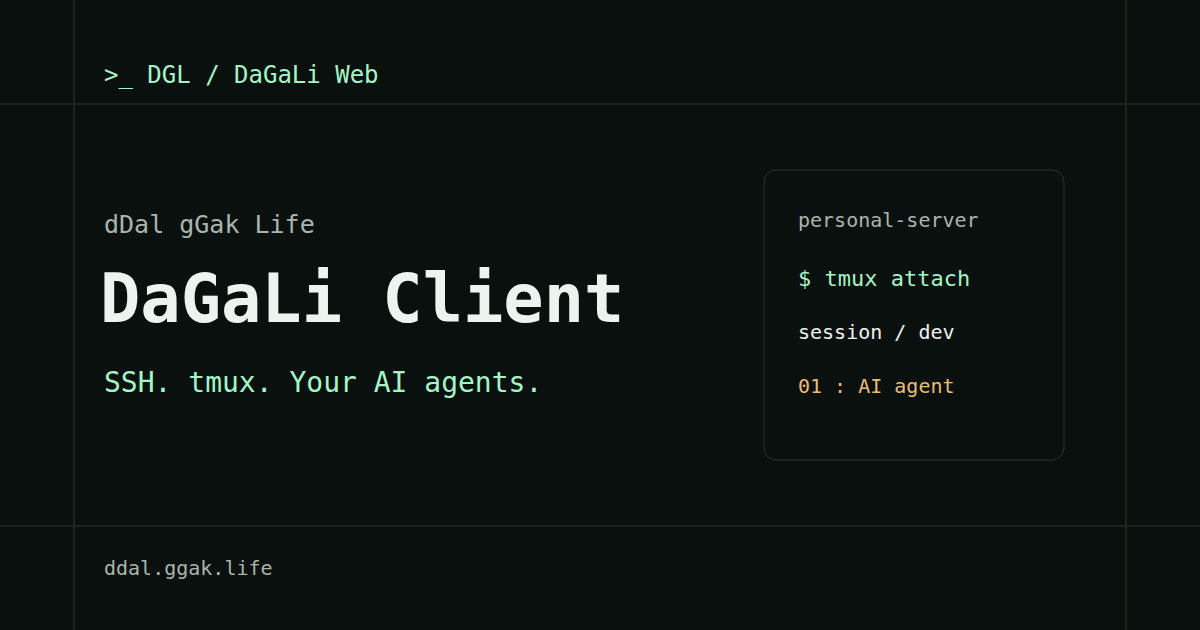
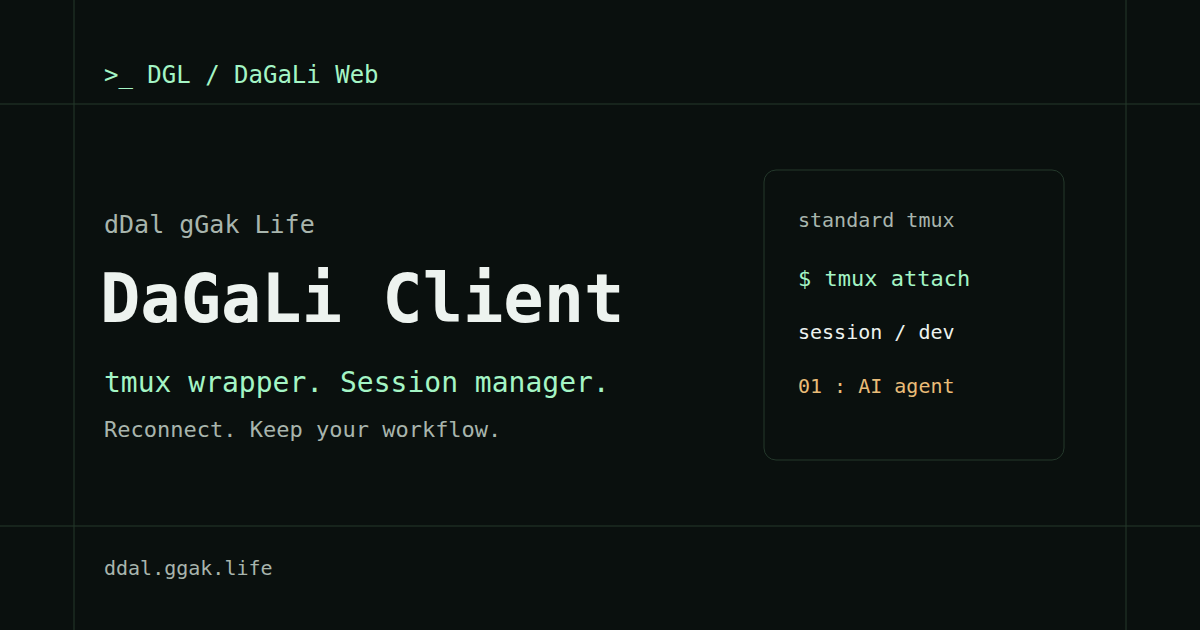
fix: center DGL messaging on tmux session management

Changed region(s): [[0.0925, 0.573, 0.4933, 0.6333], [0.0925, 0.6635, 0.4317, 0.6937], [0.6475, 0.3317, 0.8325, 0.3619]]

diff --git a/src/data/content.ts b/src/data/content.ts
@@ -61,10 +61,10 @@ interface Content {
 
 export const content: Record<Language, Content> = {
   en: {
-    title: 'DaGaLi Client — SSH, tmux & your AI agents | DaGaLi Web',
+    title: 'DaGaLi Client — tmux session manager | DaGaLi Web',
     description:
-      'Meet DaGaLi Client (DGL): a development-stage SSH client for tmux and AI coding agents on your personal server. Explore features and platform progress.',
-    workflowStack: 'SSH + tmux + AI coding agents',
+      'DaGaLi Client (DGL) is a development-stage tmux wrapper for session reconnection and management. Keep using standard tmux, with SSH for remote access.',
+    workflowStack: 'tmux wrapper · session manager',
     nav: {
       label: 'On this page',
       workflow: 'How it works',
@@ -77,50 +77,50 @@ export const content: Record<Language, Content> = {
     hero: {
       title: 'Step away.',
       emphasis: 'Keep your place.',
-      body: 'Already running AI coding agents in tmux? Connect over SSH, find your sessions and panes, and pick up the work on your personal server.',
+      body: 'DaGaLi Client wraps tmux to help you reconnect to and manage sessions, windows and panes. Use the same tmux sessions directly from a local terminal, with built-in SSH when you need remote access.',
       github: 'Explore on GitHub',
       getApp: 'Get App',
       status: 'In development',
-      note: 'Work continues while its tmux session and server stay running. Downloads are not available yet.',
+      note: 'Work continues while the machine, tmux session and processes stay running. Downloads are not available yet.',
     },
     preview: {
       label: 'ILLUSTRATIVE EXAMPLE',
       caption:
-        'A sketch of the workflow. Not an app screenshot or a live SSH connection.',
+        'An illustrative remote tmux workflow. Not an app screenshot or a live SSH connection.',
       host: 'personal-server',
       session: 'dev session',
       agent: 'AI agent',
       output: 'Your work lives here.',
-      footer: 'SSH → tmux → AI coding agents',
+      footer: 'Standard tmux · local terminal or remote SSH',
     },
     workflow: {
-      eyebrow: '01 / THE CONNECTION',
-      title: 'SSH in. Return to tmux.',
-      body: 'Your AI coding agents are already running in tmux. DaGaLi Client brings you back to the sessions, windows and panes you use on your server.',
+      eyebrow: '01 / HOW TO USE IT',
+      title: 'Run in tmux. Reconnect. Keep going.',
+      body: 'Start a tmux session and run your AI coding agents inside it. Use DaGaLi Client to find sessions, switch windows and panes, and reconnect to your work. The same standard tmux sessions remain accessible from a local terminal; use SSH when you need remote access.',
       steps: [
-        { title: 'Personal server', detail: 'The machine you manage' },
-        { title: 'SSH', detail: 'Connect with your account' },
-        { title: 'tmux', detail: 'Sessions, windows & panes' },
-        { title: 'AI coding agents', detail: 'Your CLI, on your server' },
+        { title: 'Start tmux', detail: 'Create a session for your work' },
+        { title: 'Run your agents', detail: 'Use your AI CLI inside tmux' },
+        { title: 'Manage with DGL', detail: 'Find sessions, windows & panes' },
+        { title: 'Reconnect', detail: 'Return with DGL or a local terminal' },
       ],
-      note: 'Disconnecting the client leaves a running tmux session on the server. Reconnect to that session to continue. An ordinary SSH shell may not preserve work after disconnection.',
+      note: 'tmux keeps work running as long as the machine, session and processes stay alive. DaGaLi Client helps you manage and reconnect to those sessions. An ordinary shell alone does not provide the same persistence.',
     },
     features: {
       eyebrow: '02 / LESS FRICTION',
       title: 'Keep the CLI. Simplify the way in.',
-      body: 'Built around the moments between connecting, finding a session, and getting back to work. Features below are implemented in the development candidate; platform verification varies.',
+      body: 'Find tmux sessions, navigate windows and panes, and reconnect when you return. Features below are implemented in the development candidate; platform verification varies.',
       items: [
         {
           icon: 'tree',
-          title: 'Your tmux sessions and panes',
-          body: 'Browse a session → window → pane tree. Select a target, split a tmux pane, or move focus without remembering every command.',
+          title: 'tmux navigation and reconnection',
+          body: 'Browse a session → window → pane tree and reconnect to your work. Select a target, split a tmux pane, or move focus without remembering every command.',
           tag: 'TMUX NAVIGATION',
         },
         {
           icon: 'server',
-          title: 'Your hosts, together',
-          body: 'Save hosts, aliases and favorites. Recent connections and independent tabs keep your servers within reach.',
-          tag: 'HOST MANAGEMENT',
+          title: 'SSH when you need remote access',
+          body: 'Save SSH hosts, aliases and favorites for remote work. Recent connections and independent tabs keep your remote machines within reach.',
+          tag: 'REMOTE ACCESS',
         },
         {
           icon: 'layout',
@@ -149,17 +149,17 @@ export const content: Record<Language, Content> = {
     },
     faq: {
       eyebrow: '03 / GOOD TO KNOW',
-      title: 'Before you connect.',
+      title: 'Before you start.',
       items: [
         {
-          question: 'What do I need on my server?',
+          question: 'Do I need SSH to use tmux?',
           answer:
-            'A server you can access over SSH, your own account and authentication, a UTF-8 locale, and tmux for the session workflow. The client documents tmux 3.3–3.7 Control Mode support, with upstream server checks on 3.3a and 3.7c. Install and sign in to your AI CLI tools on that server yourself.',
+            'You can attach to standard tmux sessions directly from a local terminal on the machine running them. DaGaLi Client includes SSH as a way to reach remote sessions, using your own account and authentication. Install tmux and your AI CLI tools on the machine where the work runs, use a UTF-8 locale, and sign in to those tools yourself. The Client documents tmux 3.3–3.7 Control Mode support, with server checks on 3.3a and 3.7c.',
         },
         {
-          question: 'What does tmux keep running?',
+          question: 'What does DaGaLi Client add to tmux?',
           answer:
-            'tmux holds sessions, windows and panes on the server. Closing SSH can leave that work running so you can attach again, provided the server, session and processes survive. A server restart, deleted session or terminated process can end the work. An ordinary SSH shell does not offer the same persistence guarantee.',
+            'tmux provides the sessions, windows, panes and persistent work environment. DaGaLi Client is a wrapper that helps you navigate, reconnect to and manage those sessions. You can also attach to the same sessions directly from a local terminal. The machine, tmux session and processes must stay alive: a restart, deleted session or terminated process can end the work. An ordinary shell alone does not offer the same persistence.',
         },
         {
           id: 'download-notice',
@@ -182,15 +182,15 @@ export const content: Record<Language, Content> = {
       reviewed: 'Content reviewed',
     },
     footer: {
-      note: 'A small client for a workflow that stays yours.',
+      note: 'A small wrapper for your tmux workflow.',
       top: 'Back to top ↑',
     },
   },
   ko: {
-    title: 'DaGaLi Client — SSH, tmux, 나의 AI 에이전트 | DaGaLi Web',
+    title: 'DaGaLi Client — tmux 세션 재연결·관리 | DaGaLi Web',
     description:
-      '개인 서버의 tmux와 AI 코딩 에이전트를 위한 개발 중인 SSH 클라이언트, DaGaLi Client(DGL). 주요 기능과 플랫폼별 개발 상태를 확인하세요.',
-    workflowStack: 'SSH + tmux + AI coding agents',
+      'tmux 세션 재연결과 관리를 돕는 개발 중인 래퍼, DaGaLi Client(DGL). 표준 tmux 세션을 로컬 터미널에서도 사용하고, 원격 접속에는 SSH를 활용하세요.',
+    workflowStack: 'tmux 래퍼 · 세션 재연결·관리',
     nav: {
       label: '페이지 탐색',
       workflow: '사용 흐름',
@@ -203,50 +203,50 @@ export const content: Record<Language, Content> = {
     hero: {
       title: '자리는 바뀌어도,',
       emphasis: '작업은 이어지게.',
-      body: 'tmux에서 실행 중인 AI 코딩 에이전트에 SSH로 다시 연결하세요. 세션·창·패널을 찾아 서버에 남겨 둔 작업을 이어갑니다.',
+      body: 'DaGaLi Client는 tmux를 감싸 세션·창·패널 탐색과 재연결·관리를 돕습니다. 같은 tmux 세션을 로컬 터미널에서 직접 사용하고, 원격 접속이 필요하면 내장 SSH로 연결하세요.',
       github: 'GitHub에서 살펴보기',
       getApp: 'Get App',
       status: '개발 중',
-      note: '서버와 tmux 세션이 실행 중일 때 작업을 이어갈 수 있습니다. 다운로드는 아직 준비 중입니다.',
+      note: '작업을 실행한 컴퓨터와 tmux 세션·프로세스가 살아 있는 동안 작업을 이어갈 수 있습니다. 다운로드는 아직 준비 중입니다.',
     },
     preview: {
       label: '설명용 예시',
       caption:
-        '사용 흐름을 그린 예시입니다. 실제 앱 화면이나 실시간 SSH 연결이 아닙니다.',
+        'SSH로 접속하는 경우의 설명용 예시입니다. 실제 앱 화면이나 실시간 SSH 연결이 아닙니다.',
       host: 'personal-server',
       session: 'dev 세션',
       agent: 'AI agent',
       output: '작업은 이곳에 남아 있습니다.',
-      footer: 'SSH → tmux → AI coding agents',
+      footer: '표준 tmux · 로컬 터미널 또는 원격 SSH',
     },
     workflow: {
-      eyebrow: '01 / 연결 흐름',
-      title: 'SSH로 연결해, tmux 작업으로.',
-      body: '이미 tmux에서 실행 중인 AI 코딩 에이전트. DaGaLi Client로 서버의 익숙한 세션·창·패널에 돌아오세요.',
+      eyebrow: '01 / 사용 흐름',
+      title: 'tmux에서 실행하고, 세션을 이어가세요.',
+      body: 'tmux 세션을 열고 그 안에서 AI 코딩 에이전트를 실행하세요. DaGaLi Client로 세션을 찾고 창·패널을 전환하며, 다시 연결해 작업을 이어갑니다. 같은 표준 tmux 세션은 로컬 터미널에서도 직접 사용할 수 있고, 원격 접속이 필요할 때 SSH를 사용합니다.',
       steps: [
-        { title: '개인 서버', detail: '직접 관리하는 작업 공간' },
-        { title: 'SSH', detail: '내 계정으로 연결' },
-        { title: 'tmux', detail: '세션 · 창 · 패널 관리' },
-        { title: 'AI 코딩 에이전트', detail: '서버에서 실행하는 CLI' },
+        { title: 'tmux 세션 시작', detail: '작업할 세션을 구성하세요' },
+        { title: 'AI 에이전트 실행', detail: 'tmux 안에서 AI CLI를 쓰세요' },
+        { title: 'DGL로 관리', detail: '세션·창·패널을 탐색하세요' },
+        { title: '다시 연결', detail: 'DGL이나 로컬 터미널로 이어가세요' },
       ],
-      note: '클라이언트 연결을 닫아도 실행 중인 tmux 세션은 서버에 남습니다. 같은 세션에 다시 연결해 이어가세요. 일반 SSH 셸의 작업은 연결 종료 후 보존되지 않을 수 있습니다.',
+      note: '작업을 실행한 컴퓨터와 세션·프로세스가 살아 있는 동안 작업을 유지하는 것은 tmux입니다. DaGaLi Client는 그 세션의 관리와 재연결을 돕습니다. 일반 셸만으로는 같은 작업 유지를 보장하지 않습니다.',
     },
     features: {
       eyebrow: '02 / 주요 기능',
       title: 'CLI는 그대로. 진입은 더 편하게.',
-      body: '서버 연결부터 원하는 세션을 찾아 다시 작업하기까지. 아래 기능은 개발용 후보에 구현되어 있으며, 플랫폼별 실제 검증 범위는 다릅니다.',
+      body: 'tmux 세션을 찾고, 창·패널을 전환하고, 다시 연결해 작업을 이어가세요. 아래 기능은 개발용 후보에 구현되어 있으며, 플랫폼별 실제 검증 범위는 다릅니다.',
       items: [
         {
           icon: 'tree',
-          title: 'tmux 세션부터 원하는 패널까지',
-          body: '세션 → 창 → 패널 트리를 탐색하세요. 명령을 모두 외우지 않아도 대상을 고르고 tmux 패널을 나누거나 포커스를 옮깁니다.',
+          title: 'tmux 세션 탐색과 재연결',
+          body: '세션 → 창 → 패널 트리를 탐색하고 작업에 다시 연결하세요. 명령을 모두 외우지 않아도 대상을 고르고 tmux 패널을 나누거나 포커스를 옮깁니다.',
           tag: 'TMUX 탐색',
         },
         {
           icon: 'server',
-          title: '내 서버를 한곳에',
-          body: '호스트, 별칭, 즐겨찾기를 저장하세요. 최근 접속과 독립된 여러 연결로 필요한 서버를 빠르게 찾습니다.',
-          tag: '호스트 관리',
+          title: '원격 접속이 필요할 때는 SSH',
+          body: '원격 작업용 SSH 호스트, 별칭, 즐겨찾기를 저장하세요. 최근 접속과 독립된 여러 연결로 필요한 원격 컴퓨터를 빠르게 찾습니다.',
+          tag: '원격 접속',
         },
         {
           icon: 'layout',
@@ -275,17 +275,17 @@ export const content: Record<Language, Content> = {
     },
     faq: {
       eyebrow: '03 / 알아두기',
-      title: '연결하기 전에.',
+      title: '시작하기 전에.',
       items: [
         {
-          question: '서버에 무엇을 준비해야 하나요?',
+          question: 'tmux를 쓰려면 SSH가 꼭 필요한가요?',
           answer:
-            'SSH로 접근할 수 있는 서버, 내 계정과 인증 정보, UTF-8 로케일, 세션 작업을 위한 tmux가 필요합니다. Client 문서는 tmux 3.3–3.7의 Control Mode를 지원 범위로 안내하며, 실제 서버 검증은 3.3a·3.7c에서 진행했습니다. AI CLI 도구는 서버에 직접 설치하고 로그인해야 합니다.',
+            'tmux가 실행 중인 컴퓨터의 로컬 터미널에서 표준 tmux 세션에 직접 연결해 사용할 수 있습니다. DaGaLi Client의 내장 SSH는 내 계정과 인증 정보로 원격 세션에 접속할 때 쓰는 부가 기능입니다. 작업을 실행할 컴퓨터에 tmux와 AI CLI를 설치하고, UTF-8 로케일을 설정한 뒤 직접 로그인하세요. Client 문서는 tmux 3.3–3.7의 Control Mode를 지원 범위로 안내하며, 실제 서버 검증은 3.3a·3.7c에서 진행했습니다.',
         },
         {
-          question: 'tmux는 무엇을 유지하나요?',
+          question: 'DaGaLi Client는 tmux에 무엇을 더하나요?',
           answer:
-            'tmux는 서버에서 세션·창·패널을 관리합니다. 서버와 tmux 세션, 프로세스가 살아 있다면 SSH 연결을 닫은 뒤 다시 붙어 작업을 이어갈 수 있습니다. 서버 재시작, 세션 삭제, 프로세스 종료로 작업이 끝날 수 있으며 일반 SSH 셸은 같은 영속성을 보장하지 않습니다.',
+            'tmux가 세션·창·패널과 작업 유지 기능을 제공합니다. DaGaLi Client는 tmux를 감싸 탐색·재연결·관리를 돕는 래퍼입니다. 필요하면 같은 세션을 로컬 터미널에서 직접 사용할 수도 있습니다. 작업을 실행한 컴퓨터와 tmux 세션·프로세스가 살아 있어야 하며, 컴퓨터 재시작·세션 삭제·프로세스 종료로 작업이 끝날 수 있습니다. 일반 셸만으로는 같은 작업 유지를 보장하지 않습니다.',
         },
         {
           id: 'download-notice',
@@ -308,7 +308,7 @@ export const content: Record<Language, Content> = {
       reviewed: '콘텐츠 검토일',
     },
     footer: {
-      note: '나의 작업 방식을 위한 작은 클라이언트.',
+      note: 'tmux 작업을 이어 주는 작은 래퍼.',
       top: '맨 위로 ↑',
     },
   },

diff --git a/docs/project-plan.md b/docs/project-plan.md
@@ -4,20 +4,20 @@ Approved implementation source: the user's DaGaLi Web plan, supplied with an exp
 
 ## Purpose and ownership
 
-Introduce **DaGaLi Client (DGL)** to people using AI coding agents through SSH and tmux on personal servers. Explain purpose, features, development evidence, GitHub, and unavailable downloads. Site name: **DaGaLi Web**. Name expansion: **`dDal gGak Life`**, preserving exact case. Target domain: `https://ddal.ggak.life`.
+Introduce **DaGaLi Client (DGL)** as a tmux wrapper for session reconnection and management. Explain how to run AI coding agents in standard tmux sessions, manage them with DGL, and attach directly from a local terminal when needed. Built-in SSH provides remote access. tmux supplies the underlying session and persistence behavior. Explain features, development evidence, GitHub, and unavailable downloads. Site name: **DaGaLi Web**. Name expansion: **`dDal gGak Life`**, preserving exact case. Target domain: `https://ddal.ggak.life`.
 
 The user owns and approved branding, English/Korean routes, restrained terminal design, content scope, disabled downloads, Git/main/existing GitHub repository, Astro/GitHub Pages, no extra workflow skills, and operating boundaries. The assistant chooses internal component boundaries, CSS, types, test tools, and build procedures within that scope. One operator, no fixed deadline, no paid services, payments, advertising, or visitor analytics.
 
 ## Requirements and acceptance
 
-| ID  | Approved behavior                                                                                                         | Evidence                                              |
-| --- | ------------------------------------------------------------------------------------------------------------------------- | ----------------------------------------------------- |
-| R1  | App name, exact name expansion, value, explicitly illustrative terminal; GitHub and Get App anchors                       | Both languages, browser and no-JS checks              |
-| R2  | Personal server → SSH → tmux → AI agent diagram; return to surviving server-side sessions                                 | Source review and static diagram                      |
-| R3  | Host management, session/window/pane navigation, desktop splits, Android input helpers, optional agent status integration | Reviewed Client README and agent-status documentation |
-| R4  | Three dim, native disabled Apple App Store / Google Play / Desktop buttons; development notice                            | Pointer, keyboard, no-JS; shared configuration        |
-| R5  | Header right side in order: GitHub, star count when available, back to ggak.life, back to cozelsil.com                    | DOM order and navigation checks                       |
-| R6  | FAQ: server prerequisites, tmux role, downloads, platform development/verification status                                 | Both languages; native details elements               |
+| ID  | Approved behavior                                                                                                             | Evidence                                              |
+| --- | ----------------------------------------------------------------------------------------------------------------------------- | ----------------------------------------------------- |
+| R1  | App name, exact name expansion, value, explicitly illustrative terminal; GitHub and Get App anchors                           | Both languages, browser and no-JS checks              |
+| R2  | Start tmux → run agents → manage with DGL → reconnect; standard tmux also usable from a local terminal; SSH for remote access | User clarification, source review and static diagram  |
+| R3  | Host management, session/window/pane navigation, desktop splits, Android input helpers, optional agent status integration     | Reviewed Client README and agent-status documentation |
+| R4  | Three dim, native disabled Apple App Store / Google Play / Desktop buttons; development notice                                | Pointer, keyboard, no-JS; shared configuration        |
+| R5  | Header right side in order: GitHub, star count when available, back to ggak.life, back to cozelsil.com                        | DOM order and navigation checks                       |
+| R6  | FAQ: local/remote access, tmux and DGL roles, downloads, platform development/verification status                             | Both languages; native details elements               |
 
 English `/`, Korean `/ko/`, explicit language switch near branding, same section hash on switch, no automatic language redirect. Header resources wrap on small screens. Desktop destination remains `https://github.com/jujinkim/dgl-client/releases` in configuration while disabled. Planned package ID `kim.jujin.dglc`; numeric Apple App Store ID undecided, never guessed.
 
@@ -64,3 +64,11 @@ The user confirmed the deployed site and requested larger small text, Get App fi
 - Shared rem-based sizes: 16px body, 17px lead, 14px controls/supporting text, 12px illustrative terminal at the default 16px root. Mobile retains these sizes; existing large heading sizes remain unchanged.
 - Both locales prominently name SSH + tmux + AI coding agents. Copy addresses users already running agents in tmux; tmux navigation becomes the first feature. Download availability and platform claims remain unchanged.
 - Verify check/build/unit/browser, responsive and enlarged text, heading order, navigation/no-JS and mobile performance. Push the verified commit to existing main, confirm remote synchronization, observe the existing Pages workflow, and inspect live EN/KO delivery separately.
+
+## Product clarification and instructional workflow — 2026-10-25
+
+The user's latest clarification supersedes the earlier SSH-first description and assumption that visitors already use tmux. DGL is a **tmux wrapper, session reconnector and manager**. SSH is an additional remote-access capability; standard tmux sessions can also be used directly from a local terminal. Attribute session persistence to tmux and navigation/reconnection/management to DGL. This does not add a new DGL local-terminal backend or change platform verification claims.
+
+- Section 01 teaches a concrete sequence: start tmux, run AI agents inside it, use DGL to navigate sessions/windows/panes, reconnect with DGL or attach directly from a local terminal.
+- Apply the same roles to both locales, hero, core line, features, FAQ, metadata and share card. The terminal illustration depicts a remote example, explicitly labeled as such.
+- Preserve Get App ordering, type sizes, section IDs, disabled downloads, public API behavior and publication architecture. Verify the final copy in built and rendered EN/KO pages, then use the existing authorized main-push release and live checks.

diff --git a/docs/verification.md b/docs/verification.md
@@ -142,3 +142,15 @@ Verification used temporary Node **24.22.1** and Chromium **156**:
 - Local mobile Lighthouse, three runs per language: **100** for Performance, Accessibility, Best Practices and SEO; **CLS 0**, LCP **902–904ms**, no warnings. Audit origin `http://127.0.0.1:46775`, simulated 150ms RTT/1638.4 Kbps/4× CPU, 360×800 emulation. Reports remain in ignored `artifacts/performance/`.
 
 Local evidence is in ignored `artifacts/hero-integration/local/`. Publication uses the existing main-push Pages workflow. Deployment SHA/run evidence and the subsequent independent live HTTPS/browser checks are recorded in ignored `artifacts/hero-integration/release.json` and `artifacts/hero-integration/live/verification.json`. Physical devices, other browsers, screen-reader conformance and field performance remain unverified; no Client release is included.
+
+## tmux positioning and instructional workflow — 2026-10-25
+
+The user clarified DGL's role as a tmux wrapper, session reconnector and manager, with SSH as an additional remote-access capability. Section 01 now teaches start tmux → run agents → manage with DGL → reconnect, without assuming an existing setup. Both locales, hero, core line, features, FAQ, metadata, share card and current project records reflect that role. tmux supplies session persistence, and the same standard sessions remain directly accessible from a local terminal. The terminal illustration is explicitly a remote example. This copy does not assert a new local-terminal backend in DGL. Get App order, type sizes, IDs, disabled downloads, API behavior and platform verification claims remain unchanged.
+
+The current Client README was read through the GitHub connector on 2026-10-25 (blob `b6f7f3cc76216d575c81fbd5bf08464500f75d9d`). Its standard tmux commands and session behavior support direct terminal access. Product framing follows the user's latest clarification.
+
+- Temporary Node 24.22.1: Astro/TypeScript 0 errors/warnings/hints, formatting and static build passed, unit tests **13/13**, existing Chromium browser checks **35/35**. Axe found **0 violations** at 360/768/1440px in both languages; no-JS, locale anchors, disabled controls, reduced motion, short viewports, reflow and 200% enlarged text passed.
+- Additional EN/KO checks at 320/360/768/1440/844px confirmed the instructional steps, local-terminal wording, wrapper role, preserved sizes/anchors and no horizontal overflow. No page errors or third-party browser requests. Desktop/mobile workflow and hero captures were visually inspected. The updated SVG was exported to the existing **1200×630** PNG; the card was visually inspected, and served assets matched the build.
+- Local Lighthouse at `http://127.0.0.1:39971/` and `/ko/`, 360×800 mobile emulation, simulated 150ms RTT/1638.4 Kbps/4× CPU: three runs per language, all four categories **100**, **CLS 0**, LCP **902–903ms**, no warnings. These are local measurements.
+
+Evidence: ignored `artifacts/tmux-positioning/local/` and `artifacts/performance/`. Deployment and independent live browser/HTTPS evidence use `artifacts/tmux-positioning/release.json` and `artifacts/tmux-positioning/live/verification.json`. Physical devices, other browsers, screen readers, field performance and Client application verification remain outside these checks.

diff --git a/task.md b/task.md
@@ -75,3 +75,12 @@ Implementation and local acceptance are complete. Authorized release recovery co
 - Node 24.22.1: check/format/build passed, 0 errors/warnings/hints; unit tests 13/13 and existing browser tests 35/35. Axe: 0 violations at 360/768/1440 in both locales. EN/KO rendered checks covered 320/360/768/1440/844px, short screens, no-JS and original font sizes; desktop/mobile captures visually inspected. Evidence: ignored `artifacts/hero-integration/local/`.
 - Mobile Lighthouse: EN/KO three runs each, all four categories 100, CLS 0, LCP 902–904ms, no warnings. These are local Chromium measurements; physical devices, other browsers, screen readers and field performance remain separate gates.
 - Release evidence uses ignored `artifacts/hero-integration/release.json` and `artifacts/hero-integration/live/verification.json`, recording the existing main-push workflow's deployed SHA/run and actual live EN/KO/browser/assets results independently from local checks.
+
+## tmux positioning and instructional workflow — 2026-10-25
+
+- Latest user clarification: DGL is a tmux wrapper, session reconnector and manager. SSH is an additional remote-access capability; standard tmux sessions remain directly usable from a local terminal. Section 01 must teach usage rather than assume an existing tmux workflow. This supersedes earlier SSH-first positioning.
+- Updated EN/KO hero, core line, instructional four-step workflow, features, FAQ, metadata and footer. Attributed session persistence to tmux and navigation/reconnection/management to DGL. Remote terminal illustration labeled explicitly. Updated SVG and exported the existing 1200×630 PNG share card. Current README/plan/checklist reflect the clarification; platform claims, anchors, type sizes, disabled downloads and API/deployment architecture are preserved.
+- Read current Client README via GitHub connector, blob `b6f7f3cc76216d575c81fbd5bf08464500f75d9d`, confirming standard tmux access. Direct local terminal attachment is described without claiming a new DGL local-terminal backend.
+- Node 24.22.1: check/format/build passed, unit tests 13/13, existing browser checks 35/35, axe 0 violations. EN/KO rendered review at 320/360/768/1440/844px passed, including no-JS, short screens, 200% text, original sizes, disabled downloads and locale anchors. Desktop/mobile workflow/hero and share card visually inspected. Evidence: ignored `artifacts/tmux-positioning/local/`.
+- Local mobile Lighthouse, three runs per language: all four categories 100, CLS 0, LCP 902–903ms, no warnings. Physical devices, other browsers, screen readers, field performance and Client application tests remain separate.
+- Existing authorized main-push publication is used; release SHA/run and independent live EN/KO/browser/HTTPS/asset evidence are recorded in ignored `artifacts/tmux-positioning/release.json` and `artifacts/tmux-positioning/live/verification.json`.

diff --git a/docs/project-checklist.md b/docs/project-checklist.md
@@ -3,7 +3,7 @@
 Read affected criteria before changes; recheck against actual artifacts afterward. Evidence and limitations live in `task.md` and `docs/verification.md`. Local checks and public deployment checks are recorded separately.
 
 - [x] **Brand / R1:** DaGaLi Web, DaGaLi Client, DGL and exact `dDal gGak Life` in both locales. Check rendered text and metadata.
-- [x] **Content / R2–R3, R6:** Compare Client README/agent documentation; distinguish implementation, reported verification and release. No implied iOS release or ordinary-shell persistence.
+- [x] **Content / R2–R3, R6:** DGL is a tmux wrapper for session reconnection and management; SSH provides remote access, and standard tmux sessions remain directly usable from a local terminal. Section 01 teaches usage without assuming an existing setup. Compare Client README/agent documentation; distinguish implementation, reported verification and release. No implied iOS release or ordinary-shell persistence.
 - [x] **Downloads / R4:** One configuration owns three dim native disabled buttons and future destinations; Apple numeric ID null, package `kim.jujin.dglc`, Desktop Releases URL preserved. Exercise pointer and keyboard; no navigation with JS disabled.
 - [x] **Navigation / R1, R5:** Header resource order/destinations, explicit `/` ↔ `/ko/` switch near brand, matching section hash, anchors, direct routes and 404. No automatic language redirect.
 - [x] **Stars / R5:** Build-only public API; valid positive/zero counts render. HTTP/JSON/invalid data/network/timeout omit count, preserve GitHub, finish build. Browser makes no API requests.

diff --git a/README.md b/README.md
@@ -1,7 +1,8 @@
 # DaGaLi Web
 
 **DaGaLi Client (DGL)** 소개 사이트. 이름 풀이는 **`dDal gGak Life`**.
-개인 서버에서 SSH·tmux로 AI 코딩 에이전트를 사용하는 흐름과 앱 개발 상태를 안내합니다.
+tmux를 감싸 세션 재연결·관리를 돕는 앱과 개발 상태를 안내합니다.
+표준 tmux 세션은 로컬 터미널에서도 직접 사용할 수 있으며, 내장 SSH는 원격 접속을 위한 부가 기능입니다.
 
 - 영어 `/`, 한국어 `/ko/`. 언어 전환은 명시적이며 JavaScript가 켜져 있으면 읽던 섹션을 유지합니다.
 - Astro 정적 사이트, 시스템 글꼴, CSS 효과와 작은 언어 전환 스크립트.
